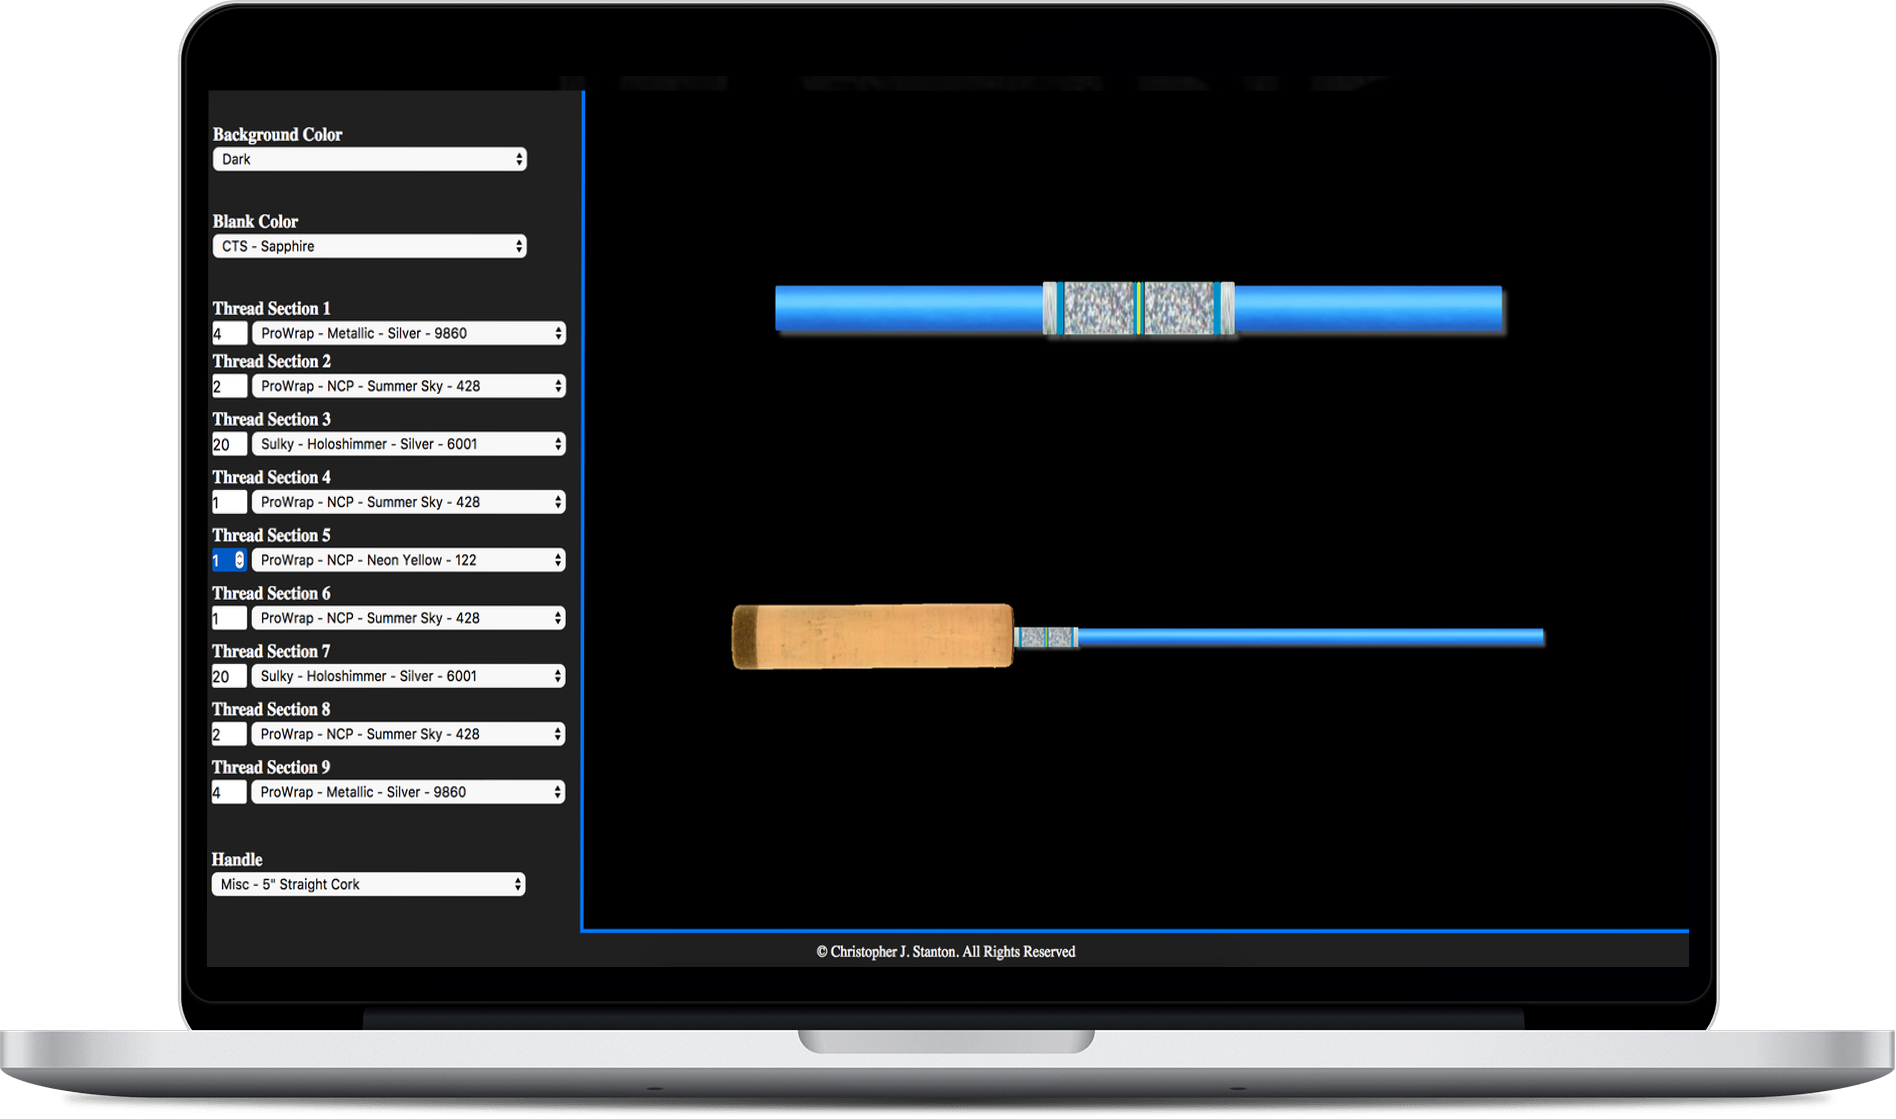
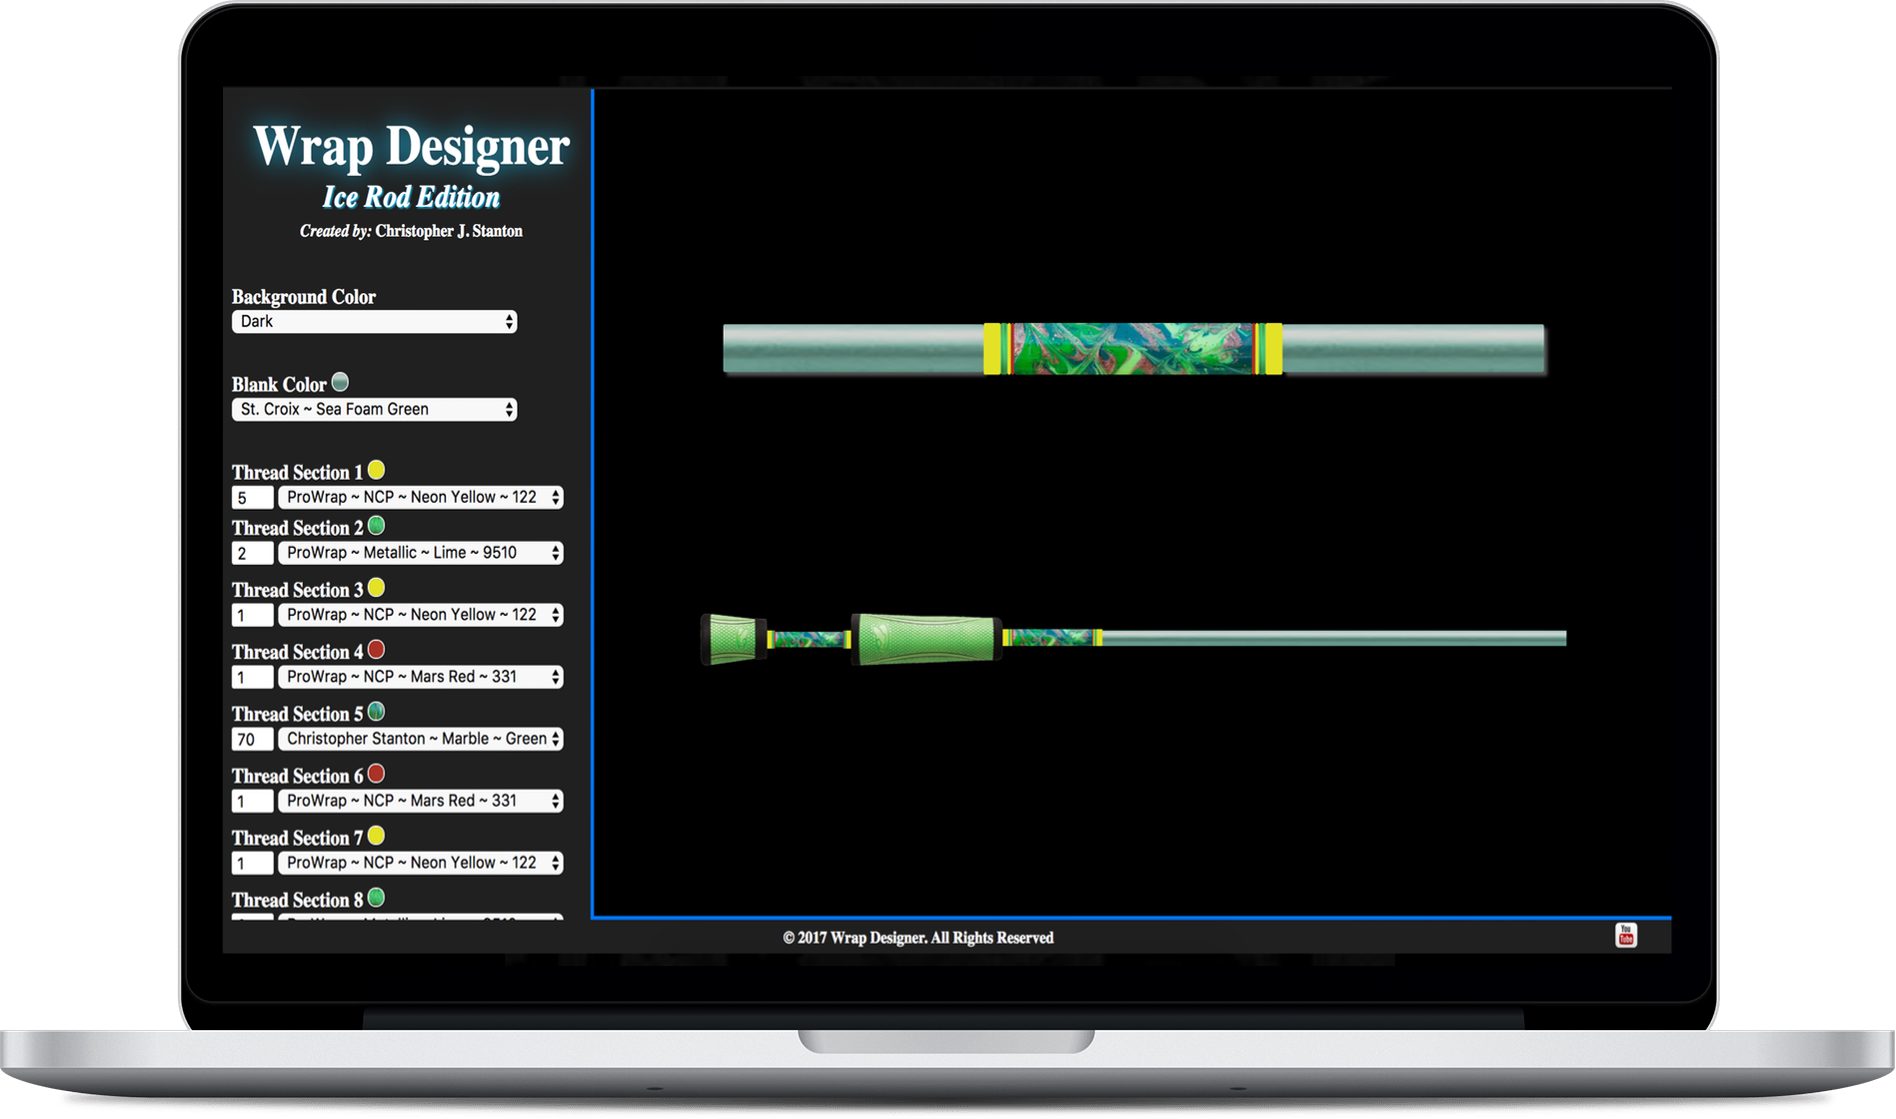
added guide spacing app in development and made new mac mockups for two projects

Changed region(s): [[0.0934, 0.0912, 0.9024, 0.8811], [0.3734, 0.2431, 0.8402, 0.3342], [0.3423, 0.5165, 0.8402, 0.6077]]

diff --git a/public/views/development.html b/public/views/development.html
@@ -190,6 +190,43 @@
     </section>
   </section>
 
+  <section class="development-heading">
+    <h1> Guide Spacing Database </h1>
+    <a ng-href="https://github.com/chris-stanton/APP-guide-spacing"><img ng-src="../assets/images/icons/github-white.ico"></a>
+  </section>
+  <section class="flex-development-app">
+    <section class="development-description">
+      <h3> About </h3>
+      <p>
+        Aide in helping with guide size and spacing when building ice fishing rods.
+        Application has guide size and spacing specs from specific manufactures and modified spacings by Chris Stanton.
+        Spacing and guide size values are current with production.
+      </p>
+    </section>
+    <section class="development-technologies">
+      <h3> Technologies Used </h3>
+      <ul>
+        <li> HTML </li>
+        <li> CSS </li>
+        <li> FlexBox</li>
+        <li> Javascript </li>
+        <li> Angular </li>
+        <li> Angular-route </li>
+        <li> Node JS </li>
+        <li> Express </li>
+        <li> Body-parser </li>
+        <li> PostgreSQL </li>
+        <li> Heroku </li>
+        <li> GIT/GitHub </li>
+        <li> Photoshop</li>
+      </ul>
+    </section>
+    <section class="development-mockups">
+      <img class="mockup-mac" ng-src="../assets/images/mockups/guideSpacing-mac.png">
+      <img class="mockup-iphone" ng-src="../assets/images/mockups/guideSpacing-iphone.png">
+    </section>
+  </section>
+
 <!-- wrap designer full stack -->
   <section class="development-heading">
     <h1> Wrap Designer (MEAN Stack) </h1>
